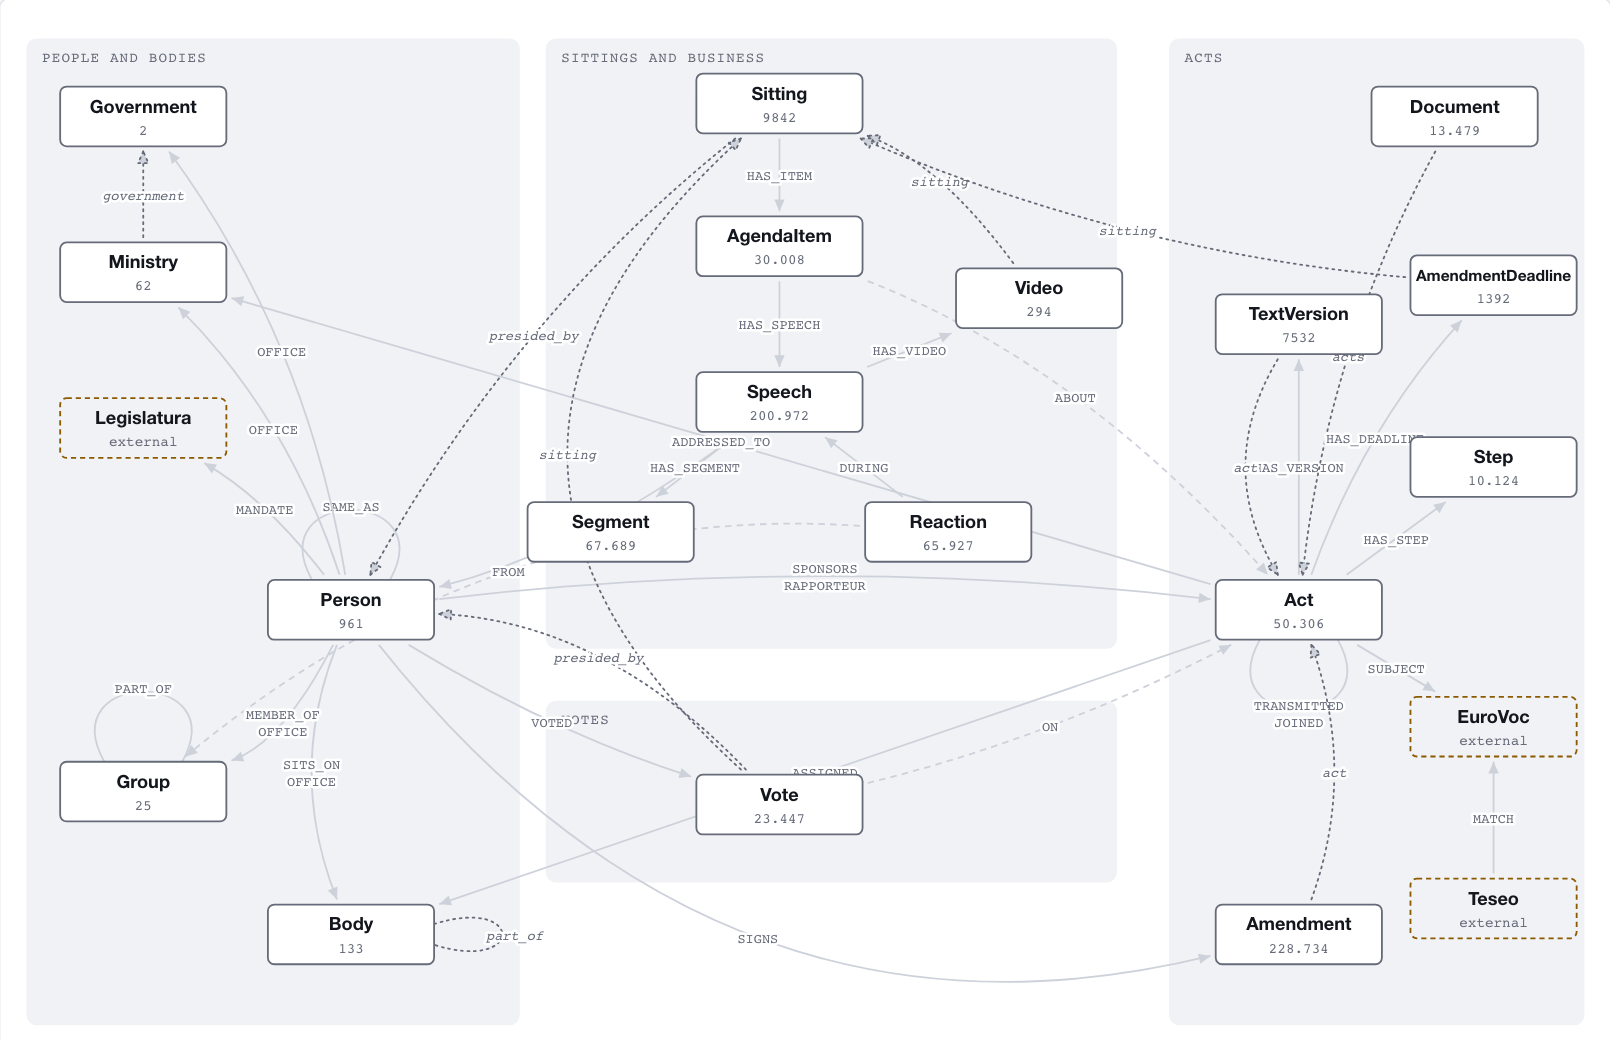
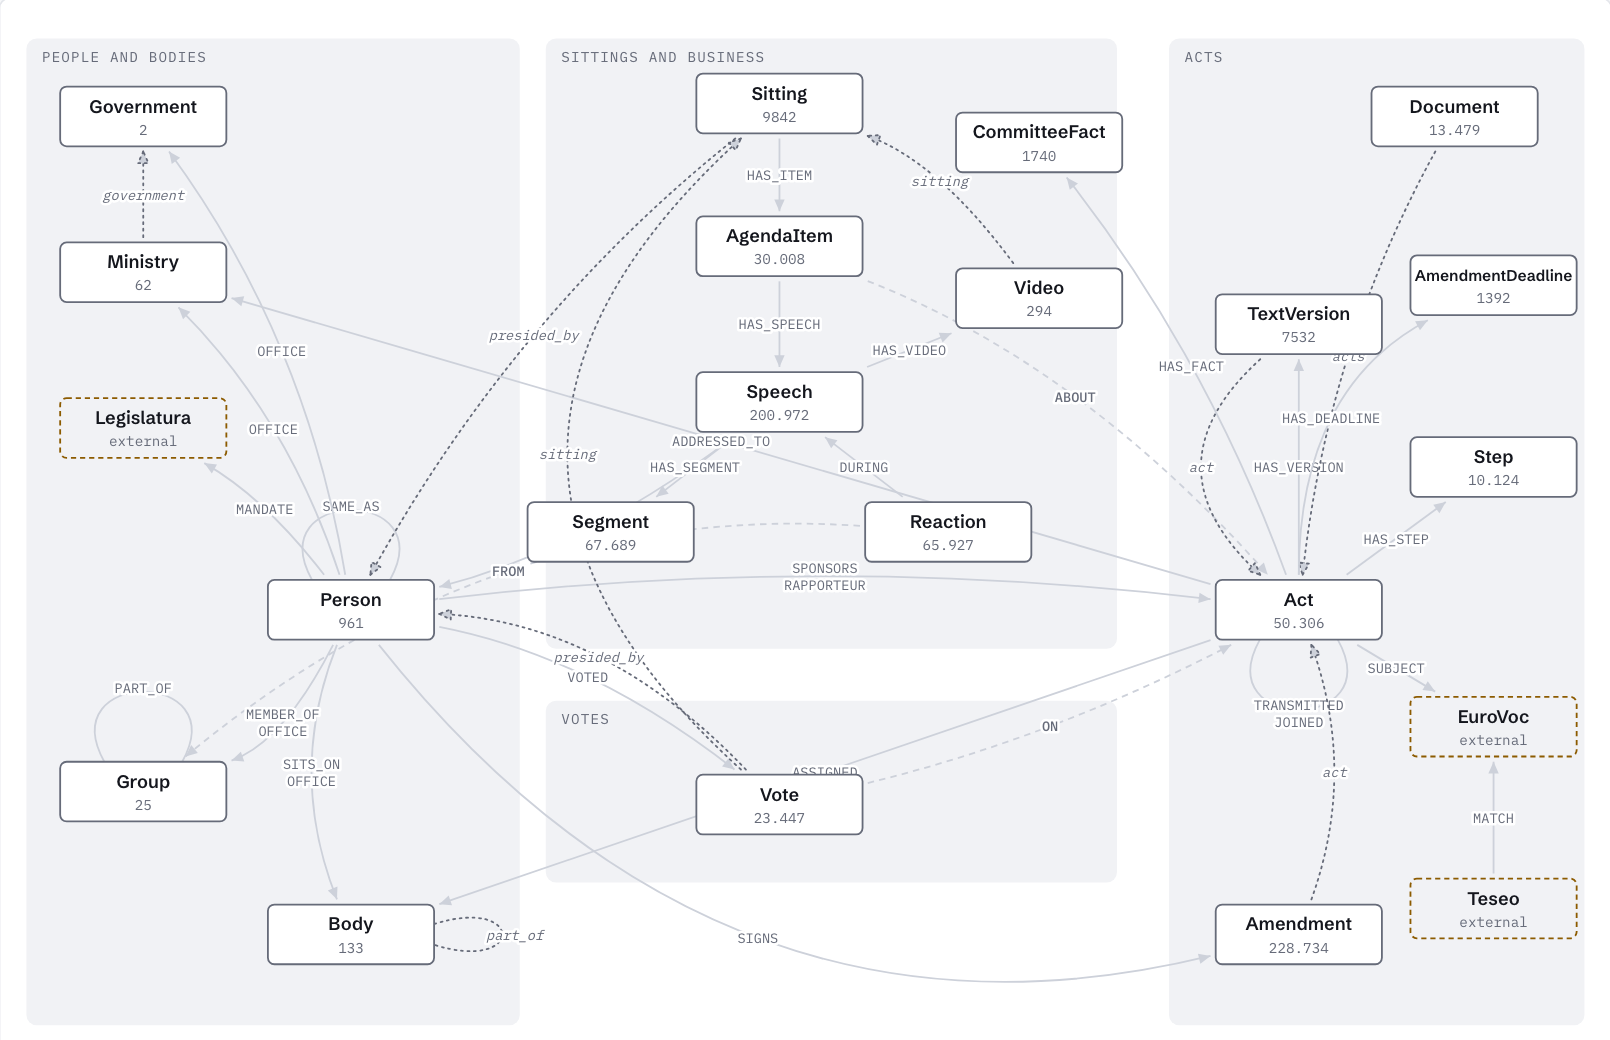
docs(parliamentrag): i lavori delle commissioni nel modello dei dati

diff --git a/index.html b/index.html
@@ -190,7 +190,7 @@
         </ul>
 
         <figure class="feature-figure">
-          <img src="assets/parliamentrag-grafo.png" alt="Schema of the ParliamentRAG graph: people and bodies, sittings and business, votes and acts, with node types such as Person, Group, Body, Sitting, Speech, Vote, Act, Amendment and AmendmentDeadline and the relations between them" width="1610" height="1040" loading="lazy">
+          <img src="assets/parliamentrag-grafo.png" alt="Schema of the ParliamentRAG graph: people and bodies, sittings and business, votes and acts, with node types such as Person, Group, Body, Sitting, Speech, Vote, Act, Amendment, AmendmentDeadline and CommitteeFact and the relations between them" width="1610" height="1040" loading="lazy">
           <figcaption>The data model: node types grouped by area, with the relations between them and the count of each type.</figcaption>
         </figure>
 

diff --git a/it/index.html b/it/index.html
@@ -134,7 +134,7 @@
         </ul>
 
         <figure class="feature-figure">
-          <img src="/assets/parliamentrag-grafo.png" alt="Schema del grafo di ParliamentRAG: persone e organi, sedute e lavori, voti e atti, con tipi di nodo come Person, Group, Body, Sitting, Speech, Vote, Act, Amendment e AmendmentDeadline e le relazioni fra loro" width="1610" height="1040" loading="lazy">
+          <img src="/assets/parliamentrag-grafo.png" alt="Schema del grafo di ParliamentRAG: persone e organi, sedute e lavori, voti e atti, con tipi di nodo come Person, Group, Body, Sitting, Speech, Vote, Act, Amendment, AmendmentDeadline e CommitteeFact e le relazioni fra loro" width="1610" height="1040" loading="lazy">
           <figcaption>Il modello dei dati: i tipi di nodo raggruppati per area, con le relazioni fra loro e quanti sono per tipo.</figcaption>
         </figure>
 
